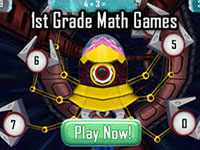
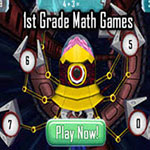
responsive graphics

diff --git a/index.html b/index.html
@@ -8,10 +8,12 @@
 				<link href='http://fonts.googleapis.com/css?family=Happy+Monkey' rel='stylesheet' type='text/css'>
 		</head>
 	<body>
-		<header>
+<div id="wrapper"><header>
 			<div id="navigation">
 				<nav>
-					<div id="logo"><h1>Math Club</h1></div>
+					<div id="logo">
+						<h1>Math Club</h1>
+					</div>
 						<ul>
 							<li id="menu"><a href="index.html">Home</a></li>
 						</ul>
@@ -20,19 +22,21 @@
 		</header>
 	<section>
 			<h2>Exercise Your Brain!</h2>
-					<div id="intro"><p>Math Club offers animated, dynamic, and 
+					<div id="intro">
+						<p>Math Club offers animated, dynamic, and 
 					interactive games. The games include fractions, division, multiplication, addition, and subtraction. 
 					The speed at which students can calculate counts. This makes it more challenging-and fun also! 
 					These games will not only increase a student's focus level throughout the day, 
 					but they will also eliminate fears of not being 
-			good at the subject of math.</p>
+			good at the subject of math.
+						</p>
 					</div><!--ends intro div-->
 			<div id="gallery">
 				<ul>
 					<li id="secondgame"><img src="images/MathGame2.jpg" alt="game" ></li>
-						<li id="professor"><img src="images/FunnyScientist.jpg" alt="teacher" ></li>
-							<li id="icons"><img src="images/NewLifeMath.jpg" alt="symbols" ></li>
-						<li id="gears"><img src="images/GearsWorking.jpg" alt="gears" ></li>
+					<li id="professor"><img src="images/FunnyScientist.jpg" alt="teacher" ></li>
+					<li id="icons"><img src="images/NewLifeMath.jpg" alt="symbols" ></li>
+					<li id="gears"><img src="images/GearsWorking.jpg" alt="gears" ></li>
 				</ul>
 			</div>
  	</section>
@@ -40,21 +44,30 @@
  				<div id="review">	
  					<h3>Parental Review</h3>
  							<header>Published 08/06/13</header>
- 								<div id="comment"><p>My daughter signed up for Math Club in October. 
+ 								<div id="comment">
+ 									<p>My daughter signed up for Math Club in October. 
  								After two weeks of interactive gaming, she stopped asking for help with her homework. 
- 								Adelyn's grades went up after a month. Thank you Math Club!</p></div>
+ 								Adelyn's grades went up after a month. Thank you Math Club!
+ 									</p>
+ 								</div>
  						<footer>Sandra K.</footer>
  				</div><!--end "review-->
  		</article>
- 			<div id="conclusion"><p>Math Club is a <strong>free</strong> website. Please <a href="form.html">sign up</a> 
- 			today. Teaching is our goal.</p>
+ 			<div id="conclusion">
+ 				<p>Math Club is a <strong>free</strong> website. Please <a href="form.html">sign up</a> 
+ 			today. Teaching is our goal.
+ 				</p>
  			</div><!--ends conclusion div-->
  	<aside>
  				<div id="preview">
- 			<h4>Press the play button to preview a math game.</h4>
- 					<div id="game"><p><a href="games.html"><img src="images/MathGame.jpg" alt="robot" ></a></p></div>
+ 					<h4>Press the play button to preview a math game.</h4>
+ 						<div id="game">
+ 							<p><a href="games.html"><img src="images/MathGame.jpg" alt="robot" ></a>
+ 							</p>
+ 						</div><!--end "game" div-->
  				</div><!--end "preview"-->
  	</aside>			
 		<footer>Math Club&copy;2013</footer>
+</div><!--ends wrapper div-->
 			</body>
 				</html>

diff --git a/css/main.css b/css/main.css
@@ -14,7 +14,7 @@
 		 margin-right:auto;
 		 }
 #menu ul li a:link		{
-				max-width:100%
+				max-width:100%;
 				color:#f2fb09;/*yellow*/
 						}
 				a:visited{
@@ -89,11 +89,11 @@ ul			{
 			border:2px solid black;
 			border-radius:10px;
 			padding:1.3%;/*13px*/
-			
+			padding-left:6%;
 			}
 
 #gallery, li{
-			
+			list-style:none;
 			margin-left:auto;
 			margin-right:auto;
 			}	
@@ -102,20 +102,27 @@ ul			{
 				}
 
 #gears, #icons, #secondgame, #professor{
-padding:1.8%;/*18px*/
-border:2px solid black;
-width:20%;/*1000/200*/
+margin:1%;
+max-width:100%;/*1000/200*/
+
+
 }
 #gears img{
 max-width:100%;
+padding-top:1%;
+padding-left:1%;
+border:1px #509cff;
 }
 #icons img{
+border:1px #509cff;
 max-width:100%;
 }
 #secondgame img{
 max-width:100%;
+border:1px #509cff;
 }
 #professor img{
+border:1px #509cff;
 max-width:100%;
 }
 #comment{
@@ -152,20 +159,54 @@ margin-right:30%;
 		 margin-right:30%;/*10px/200*//*was.05%*/
 		 }
 #game{
-border:2px solid black;
+border:2px solid red;
 }
 #game img{
 max-width:100%;
 }	
 /*Media queries*/
-@media screen and (min-width: 760px) and (max-width:1000){
-			#conclusion{background-color:#509cff;}
+@media screen and (min-width:760px) and (max-width:1000px){
+			#conclusion{
+			background-color:#509cff;
 			}
+			#gallery{
+			background-color:#509cff;
+			}
+			#preview{
+			background-color:#dc4747;
+			}
+			
+			}
+			
 @media only screen and (min-width:480px) and (max-width:759px){
-			#conclusion{background-color:#509cff;}
+			#conclusion{
+			background-color:#509cff;
+			}
+			#gallery{
+			background-color:#509cff;
+			
+			}
+			#preview{
+			background-color:#509cff;
+			}
+			#gears, #icons, #secondgame, #professor{
+			max-width:90%;
+			}
+			
 			}
 @media only screen and (max-width:479px){
-			#conclusion{ background-color:#509cff;}
+			#conclusion{
+			background-color:#509cff;
+			}
+			#gallery{
+			background-color:#509cff;
+			}
+			#preview{
+			background-color:#dc4747;
+			}
+			body {
+			background-image:none;
+			}
 			}
 article{
 height:10%;
